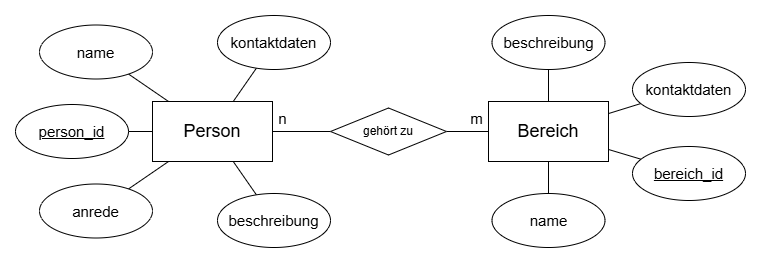
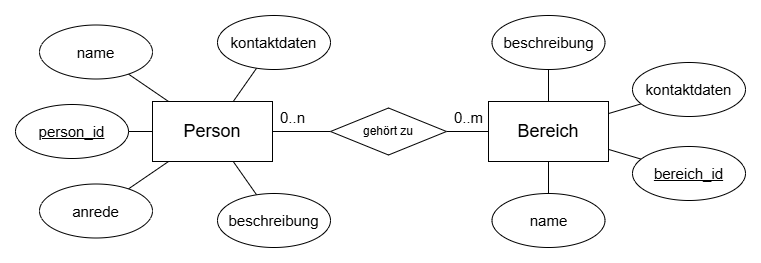
Platz um Text herum

diff --git a/demo/src/main/resources/templates/person-input.html b/demo/src/main/resources/templates/person-input.html
@@ -39,15 +39,17 @@
       </label>
     </p>
 
-      <p><strong>Bereiche auswählen:</strong></p>
-      <div th:each="bereich : ${bereiche}">
-        <label>
-          <input type="checkbox"
-                 name="bereichIds"
-                 th:value="${bereich.bereich_id}"
-                 th:checked="${person.bereiche.contains(bereich)}">
-          <span th:text="${bereich.name}"></span>
-        </label>
+    <p>
+      <strong>Bereiche auswählen:</strong>
+    </p>
+    <div th:each="bereich : ${bereiche}" style="margin-bottom: 5px;">
+      <label>
+        <input type="checkbox"
+               name="bereichIds"
+               th:value="${bereich.bereich_id}"
+               th:checked="${person.bereiche.contains(bereich)}">
+        <span th:text="${bereich.name}"></span>
+      </label>
     </div>
 
     <button type="submit" >

diff --git a/demo/src/main/resources/templates/personen.html b/demo/src/main/resources/templates/personen.html
@@ -3,16 +3,23 @@
 <head>
     <meta charset="UTF-8">
     <title>Personen</title>
+    <style>
+        table th, table td {
+            padding: 12px 15px;
+            text-align: left;
+        }
+    </style>
 </head>
 <body>
 
-    <table>
+    <table style = "width: 100%;" cellpadding="">
 
         <tr>
             <th>Name</th>
             <th>Anrede</th>
             <th>Kontakt</th>
             <th>Beschreibung</th>
+            <th>Aktionen</th>
         </tr>
 
         <tr th:each="person : ${personen}">

diff --git a/demo/src/main/resources/templates/home.html b/demo/src/main/resources/templates/home.html
@@ -32,7 +32,7 @@
                 </button>
             </p>
 
-            <details th:each="person : ${bereich.personen}">
+            <details th:each="person : ${bereich.personen}" style="margin-bottom: 15px;">
                 <summary th:text="${person.name}">
                 </summary>
                 <p>

diff --git a/README.md b/README.md
@@ -23,7 +23,7 @@ An das Projekt werden folgende Anforderungen gestellt:
 - [x] Die Anwendung verwendet zwei Tabellen
 - [x] Create, Read, Update und Delete Operationen werden unterstützt.
 - [x] Daten sollen in Datei auf Festplatte/SSD geschrieben werden.
-- [ ] Das Datenmodell wird als Diagramm dargestellt und als PNG, SVG oder PDF im Repo Beigefügt.
+- [x] Das Datenmodell wird als Diagramm dargestellt und als PNG, SVG oder PDF im Repo Beigefügt.
 - [x] Eine (rein funktionale) HTML Benutzeroberfläche besteht. Dafür können verwendet werden:
     - Thymeleaf
     - Statische HTML-Seite mit RestController & REST-API
@@ -33,17 +33,17 @@ An das Projekt werden folgende Anforderungen gestellt:
 #### Bewertungskriterien
 - [x] Funktional Korrekt
 - [ ] Funktional Robust
-- [ ] Oberfläche besitzt konsistentes Aussehen
+- [x] Oberfläche besitzt konsistentes Aussehen
 - [x] Oberfläche muss gut bedienbar sein
 - [x] Zahlen & Datumsformate passen zur Sprache
-- [ ] Sicherheitsabfrage vor Löschoperation
-- [ ] Texte haben guten farblichen Kontrast
+- [x] Sicherheitsabfrage vor Löschoperation
+- [x] Texte haben guten farblichen Kontrast
 - [ ] Texte haben immer etwas Platz drum herum
-- [ ] Ungültige Eingaben werden sinnvoll behandelt
-- [ ] Bedienung ist Intuitiv
+- [x] Ungültige Eingaben werden sinnvoll behandelt
+- [x] Bedienung ist Intuitiv
 
 #### Quellcode Anforderungen
-- [ ] Code ist nicht KI-Generiert
+- [x] Code ist nicht KI-Generiert
 - [x] Bei H2 Verwendung muss das Datenmodell normalisiert sein.
 - [ ] Catch Blöcke des Exception Handeling müssen den Zwischenfall immer loggen und wenn Sinnvoll den Benutzer darauf hinweisen.
 - [ ] Import-Anweisungen gelten für Klassen, keine Wildcards mit *